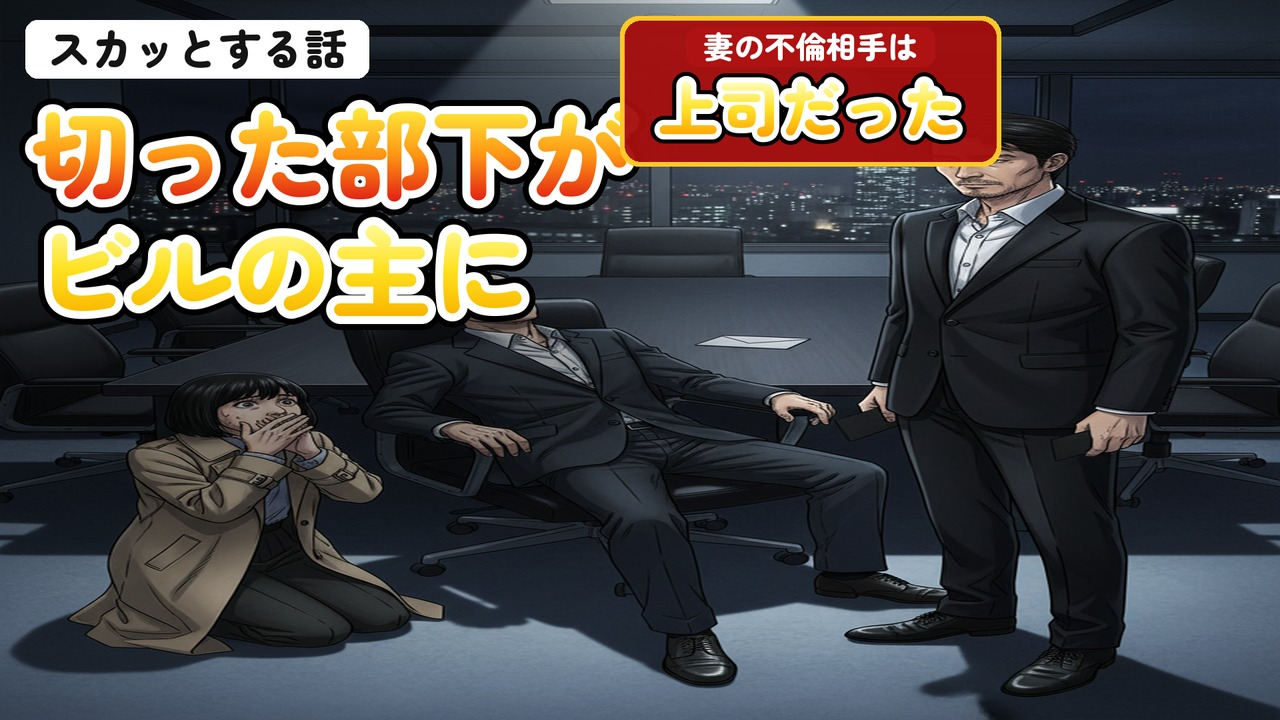
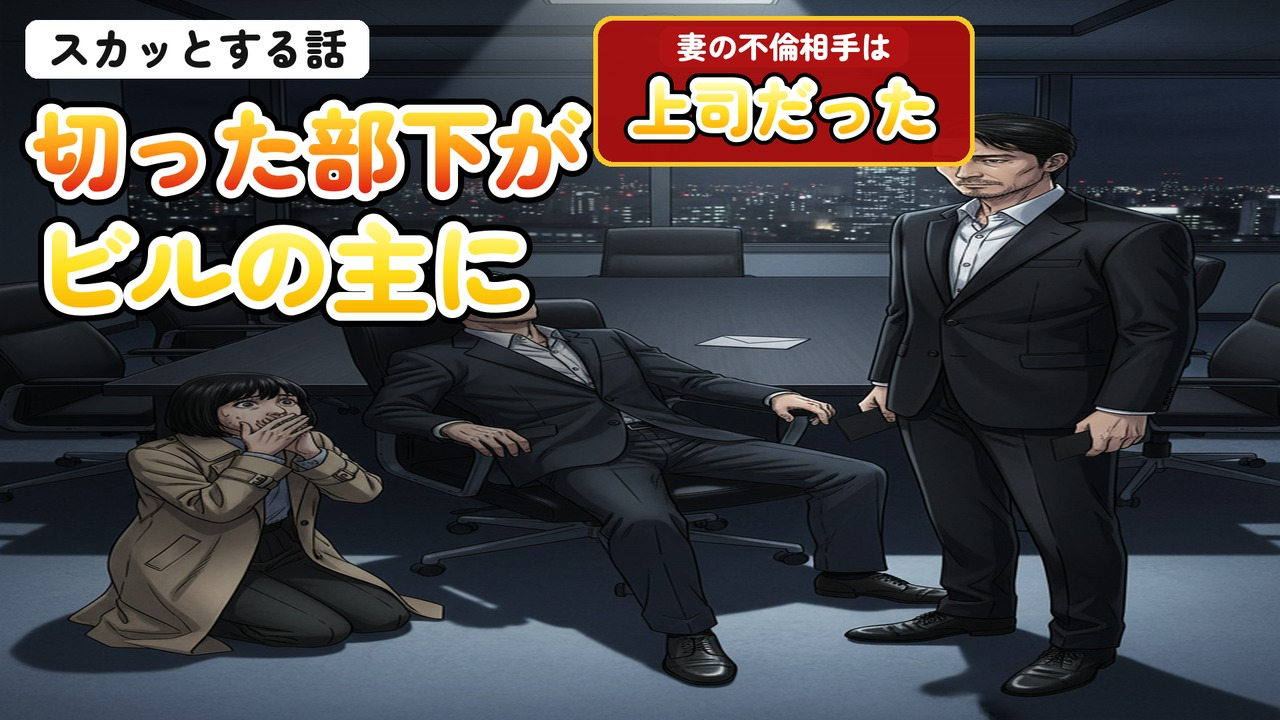
finalize: 붉은 점멸 blend all_expr+enable로 수정, 썸네일 B 배지 위치
Claude-Session: https://claude.ai/code/session_012dfS4GuA5YmFGxomBhu6oK

Changed region(s): [[0.0, 0.0, 0.7812, 0.4583]]

diff --git a/scripts/finalize_blackcard.py b/scripts/finalize_blackcard.py
@@ -356,8 +356,9 @@ def patch(src, out, tmp, only=None):
     sc_rng = {}
     for sid, (a, b) in B.items():
         sc = SCENE_OF[sid]; lo, hi = sc_rng.get(sc, (a, b)); sc_rng[sc] = (min(lo, a), max(hi, b))
-    en = "+".join(f"between(T,{sc_rng[s][0]:.3f},{sc_rng[s][1]:.3f})" for s in sorted(RED_PULSE))
-    fc.append(f"{last}[1:v]blend=all_mode=screen:all_opacity='({en})*0.55*(0.5+0.5*sin(2*PI*T/2.0))':shortest=1[rp]")
+    en = "+".join(f"between(t,{sc_rng[s][0]:.3f},{sc_rng[s][1]:.3f})" for s in sorted(RED_PULSE))
+    # all_opacity는 식을 받지 않는다(2026-11-03 실증) → screen 블렌드를 all_expr로 쓰고 구간은 enable로(그 밖은 통과)
+    fc.append(f"{last}[1:v]blend=all_expr='A+(B-A*B/255)*(0.55*(0.5+0.5*sin(2*PI*T/2.0)))':enable='{en}':shortest=1[rp]")
     fc.append(f"[rp]{grade_filters(src)}eq=contrast=1.03:saturation=0.97,{lift_filter(src)}noise=alls=3:allf=t+u,format=yuv420p[v]")
     script = os.path.join(tmp, "patch_fc.txt"); open(script, "w").write(";\n".join(fc))
     run(inputs + ["-filter_complex_script", script, "-map", "[v]", "-map", "0:a", "-c:v", "libx264", "-preset", "medium", "-crf", "17",

diff --git a/scripts/make_thumbnails_blackcard.py b/scripts/make_thumbnails_blackcard.py
@@ -22,8 +22,8 @@ mb.ABC = {
               rows=[("希望退職の翌日", 112, None, (255, 255, 255)), ("元部下は――", 112, None, (255, 255, 255))],
               row_y=300, quote="ビルのオーナー", quote_size=196),
     "B": dict(src="thumbB-{n}.png", side="L", label="スカッとする話",
-              rows=[("切った部下が", 150, FIRE, None), ("ビルの主に", 150, YELLOW, None)],
-              row_y=120, shade=95, shade_w=1000, badge=("妻の不倫相手は", "上司だった"), badge_xy=(930, 24), band=None),
+              rows=[("切った部下が", 138, FIRE, None), ("ビルの主に", 150, YELLOW, None)],
+              row_y=120, shade=95, shade_w=1000, badge=("妻の不倫相手は", "上司だった"), badge_xy=(890, 24), band=None),
     "C": dict(src="thumbC-{n}.png", side="R", label=None,
               rows=[("十五年、捨てられた男の", 88, RED, None), ("本当の復讐", 118, YELLOW, None)], x0=640, row_y=36,
               band=["「判子は――ここ」", "三度目の、その言葉"], band_xy=(1060, 780)),
